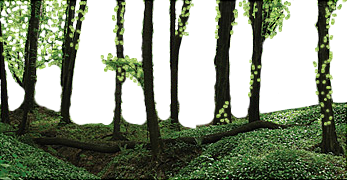
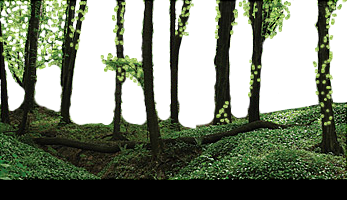
Bullet collision trees

diff --git a/main.py b/main.py
@@ -65,7 +65,7 @@ def main():
 
     bg = []
     bg.append(pygame.image.load("img/forrest1.png").convert_alpha())
-    bg.append(pygame.image.load("img/forrest2.png").convert_alpha())
+    bg.append(pygame.image.load("img/forrest2_test.png").convert_alpha())
     bg.append(pygame.image.load("img/forrest3.png").convert_alpha())
     bg.append(pygame.image.load("img/forrest4.png").convert_alpha())
     
@@ -75,8 +75,8 @@ def main():
     #bg.append(pygame.image.load("img/snowforrest4.png").convert_alpha())
 
     #loading animals
-    animals_images_filenames = ["img/animals/deer.png"]
-    #animals_images_filenames = glob.glob("img/animals/*.png")
+    #animals_images_filenames = ["img/animals/weasel.png"]
+    animals_images_filenames = glob.glob("img/animals/*.png")
     
     animals_images = []
     for filename in animals_images_filenames:
@@ -119,6 +119,9 @@ def main():
     
     while(1):
         counter += 1
+
+        adept_to_die = None
+
         keys = pygame.key.get_pressed()
 
         for event in pygame.event.get():
@@ -129,6 +132,7 @@ def main():
 
             if event.type == pygame.MOUSEBUTTONDOWN and event.button == 1:
                 mouseclick = True
+                hitforrest = []
 
             if keys[pygame.K_f]:
                 pygame.display.toggle_fullscreen()
@@ -149,9 +153,37 @@ def main():
         # drawing forrest
         for i,img in reversed(list(enumerate(bg))):
             #trees
+            forrest_draw_pos1 = (x//(i+2))%img.get_width(), y
+            forrest_draw_pos2 = (x//(i+2))%img.get_width()-img.get_width(), y
+
+            #screen.blit( img, ( (x//(i+2))%img.get_width(), y) )
+            #screen.blit( img, ( (x//(i+2))%img.get_width()-img.get_width(), y) )
             screen.blit( img, ( (x//(i+2))%img.get_width(), y) )
             screen.blit( img, ( (x//(i+2))%img.get_width()-img.get_width(), y) )
-            
+
+            #hit forrest
+            if mouseclick:
+                #hitforrest.append(  )
+                #print i, img.get_at( ( forrest_draw_pos1[0]+pygame.mouse.get_pos()[0], forrest_draw_pos1[1]+pygame.mouse.get_pos()[1]) )
+                #print i, img.get_at( ( forrest_draw_pos2[0]+pygame.mouse.get_pos()[0], forrest_draw_pos2[1]+pygame.mouse.get_pos()[1]) )
+                
+                #print "==", img.get_width()+ forrest_draw_pos1[0]+pygame.mouse.get_pos()[0], "x", img.get_width()+ forrest_draw_pos2[0]+pygame.mouse.get_pos()[0], "=="
+                
+                #print -forrest_draw_pos1[0]+pygame.mouse.get_pos()[0], -forrest_draw_pos2[0]+pygame.mouse.get_pos()[0]
+                
+                if -forrest_draw_pos1[0]+pygame.mouse.get_pos()[0] >= 0 and -forrest_draw_pos1[0]+pygame.mouse.get_pos()[0] < img.get_size()[0]:
+                    #print i, img.get_at( ( -forrest_draw_pos1[0]+pygame.mouse.get_pos()[0], forrest_draw_pos1[1]+pygame.mouse.get_pos()[1]) )
+                    hitforrest.append( img.get_at( ( -forrest_draw_pos1[0]+pygame.mouse.get_pos()[0], forrest_draw_pos1[1]+pygame.mouse.get_pos()[1]) ) )
+                else:
+                    #print i, img.get_at( ( -forrest_draw_pos2[0]+pygame.mouse.get_pos()[0], forrest_draw_pos2[1]+pygame.mouse.get_pos()[1]) )
+                    hitforrest.append( img.get_at( ( -forrest_draw_pos2[0]+pygame.mouse.get_pos()[0], forrest_draw_pos2[1]+pygame.mouse.get_pos()[1]) ) )
+                
+                #if forrest_draw_pos1[0]+pygame.mouse.get_pos()[0] > img.get_size()[0]:
+                #    print i, img.get_at( ( forrest_draw_pos2[0]+pygame.mouse.get_pos()[0], forrest_draw_pos2[1]+pygame.mouse.get_pos()[1]) )
+                #else:
+                #    print i, img.get_at( ( forrest_draw_pos1[0]+pygame.mouse.get_pos()[0], forrest_draw_pos1[1]+pygame.mouse.get_pos()[1]) )
+                
+                    
             #drops
             for one in drops[i][:]:
                 one.move()
@@ -168,7 +200,7 @@ def main():
             if i == deep:
                 player_img_toshow = toshow(player_img, deep)
 
-                screen.blit( player_img_toshow, (screen_x//2 - player_img_toshow.get_size()[0]//2, screen_y -player_img_toshow.get_size()[1] -35*(deep-1)) )
+                #screen.blit( player_img_toshow, (screen_x//2 - player_img_toshow.get_size()[0]//2, screen_y -player_img_toshow.get_size()[1] -35*(deep-1)) )
 
             #animals
             for one in animals[i][:]:
@@ -182,10 +214,22 @@ def main():
                             #checking pixels for hit
                             #print pygame.mouse.get_pos()[0]-((x//(i+2))+one.position[0]), pygame.mouse.get_pos()[1]-one.position[1]
                             hitpixel = one.image.get_at( (int(pygame.mouse.get_pos()[0]-((x//(i+2))+one.position[0])), pygame.mouse.get_pos()[1]-one.position[1]) )
-                            print hitpixel
+                            #print hitpixel
                             if hitpixel != (0,0,0,0):
+                                #checking for block in way
+                                
+                                ###screen.blit( img, ( (x//(i+2))%img.get_width(), y) )
+                                ###screen.blit( img, ( (x//(i+2))%img.get_width()-img.get_width(), y) )
+                                #for layer in bg[:i]:
+                                #    #print i, layer.get_at( pygame.mouse.get_pos() )
+                                #    print i, layer.get_at( ((x//(i+2))%layer.get_width() +pygame.mouse.get_pos()[0], y +pygame.mouse.get_pos()[1]) ), layer.get_at( ((x//(i+2))%layer.get_width()-img.get_width() +pygame.mouse.get_pos()[0], y +pygame.mouse.get_pos()[1]) )
+                                #print "================="
+                                #for pixel in hitforrest:
+                                    
                                 #print "HIT"
-                                animals[i].remove(one)
+                                #animals[i].remove(one)
+                                adept_to_die = one
+                                hitforrest = []
                                 
                 one.move()
                 # check of screen limits
@@ -195,6 +239,17 @@ def main():
                     animals[i].remove(one)
                 else:
                     one.draw(screen, (x//(i+2)))
+        
+        #killing
+        if adept_to_die != None:
+            #print len(hitforrest)
+            kill = True
+            for pixel in hitforrest:
+                if pixel != (0,0,0,0):
+                    kill = False
+            
+            if kill:
+                animals[len(hitforrest)].remove(adept_to_die)
 
         #drawing cursor
         screen.blit(cursor_img, (pygame.mouse.get_pos()[0]-cursor_img.get_size()[0]//2, pygame.mouse.get_pos()[1]-cursor_img.get_size()[1]//2))
